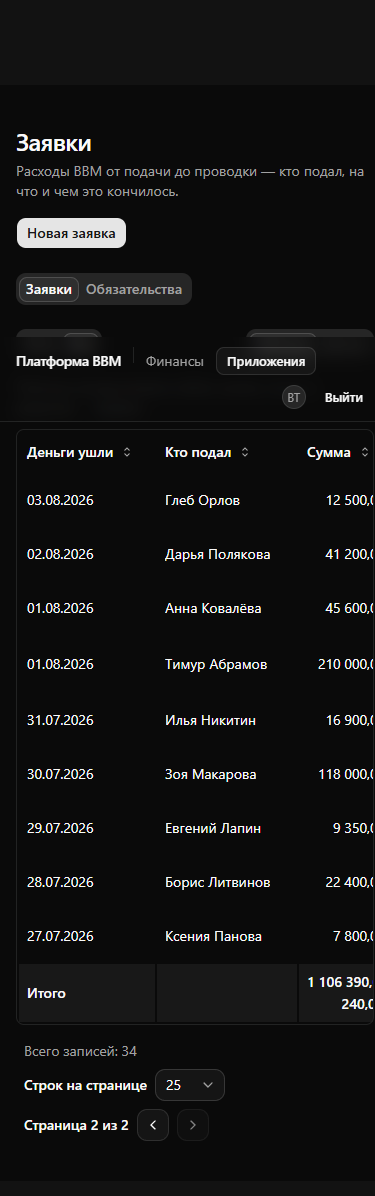
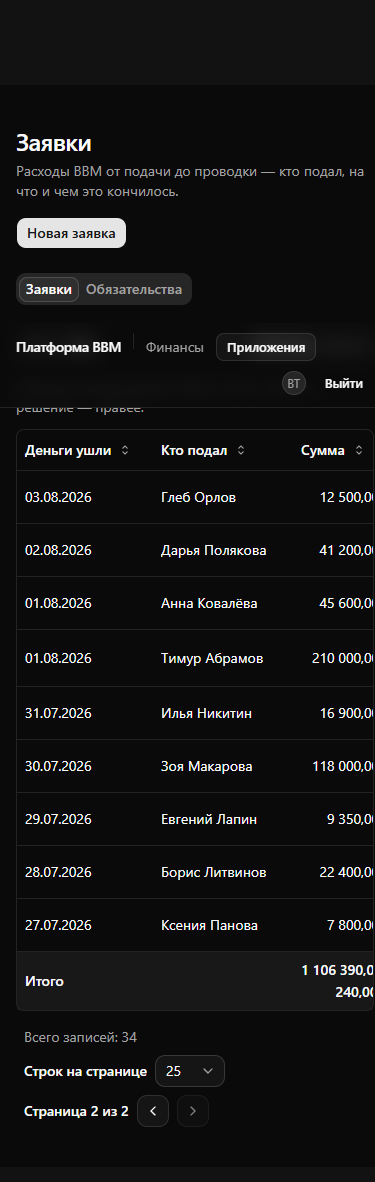
docs(evidence): #388 frames 41/42/48/49/66/67 re-taken after defect F at abc51ea
An eleventh pass over the table states, on the same stand and the same branch
DB platform_388. Measured live in all four combos: border-collapse=collapse,
the header row ruled, and 24 of 24 body rows ruled — 24 because the kit's last
row is deliberately border-0 and the container's own border closes the table.
The width budget did not move (1110/1110, overflow=false, the same header plan
and the same clipped counts); the only geometric change is the row box,
52 → 53 px, exactly the separator.

Frame 12 was NOT re-taken: the skeleton renders divs, never a <table>, so the
borders model never reached it — it was already drawing the rules, and its
desktop-light frame re-shot byte-identical.

Frame 69 could NOT be re-taken and stays the ninth pass's: its refusal
mutation answered 500 twice with «Jest worker encountered 2 child process
exceptions», the fork-exhaustion failure of a long-lived `next dev` that
.claude/rules/dev-env.md names — the PROCESS, not this diff, and its remedy is
restarting that stand, which is the lead's call. Every read-only state in the
same run measured cleanly and step 67's approve act went through.

Row changed in platform_388 this pass: #13 approved (step 67). Nothing else.

Claude-Session: https://claude.ai/code/session_011kd2BsNuzjhwU6wPvr1q2h

diff --git a/docs/evidence/388/README.md b/docs/evidence/388/README.md
@@ -772,3 +772,69 @@ mid-page, the artefact the ninth pass already named for frames taken after a
 scroll. The «Назначение» comment and the refusal reason still end in an
 ellipsis: that column is the one the plan makes give width, the reason carries a
 `title`, and both were the ninth pass's non-defects.
+
+## AN ELEVENTH pass at head `abc51ea` — defect F, the missing row separators
+
+The tenth pass's frames were re-read pixel by pixel and the register turned out
+to draw **no row separators and no rule under the header** — 25 six-column rows
+on an unbroken white field, with only the container's own `rounded-md border`
+and the footer band painting, while the loading skeleton (plain divs with
+`border-b`) ruled every row as promised. That is the ground of the owner's
+2026-09-15 rejection («no row separators; cells misaligned»), and it was never a
+missing class: measured live at head `a4322d9`, the `<tr>` already computed
+`border-bottom: 1px solid` in the `--border` colour.
+
+**The cause was the borders MODEL.** `src/ui/theme.css` transcribes Tailwind
+preflight BY HAND — an `@import` cannot be scoped to `[data-bbm-ui]`, and
+EARS-429 keeps `/p/okr` and `/p/hours` unreskinned — and the transcription
+stopped one rule short of upstream's
+`table { text-indent: 0; border-color: inherit; border-collapse: collapse }`.
+Without it the UA default stood (`border-collapse: separate`,
+`border-spacing: 2px`), and in the separate model a border set on a row, a row
+group or a column is **ignored outright** (CSS 2.2 §17.6.1). So every row rule
+the kit asks for resolved and painted nothing, and the footer band's vertical
+seams were the same cause seen from the other side — the 2 px spacing gaps
+between its cells. `abc51ea` adds that one rule, scoped like every other rule in
+the base layer; `b14ffc3` is the RED spec that pins the model rather than a
+class name.
+
+**Re-taken: 41, 42, 48, 49, 66** — each × {1440×900, 390×844} × {light, dark},
+full page, 20 frames replacing their same-name predecessors — plus **67**
+(desktop-light, the mutating one). What each shows is otherwise unchanged from
+the table above: the fix adds separators and nothing else. Harness:
+`.playwright-mcp/w3e-capture.cjs` over `w3-lib.cjs`, both git-ignored, on the
+same stand (`http://localhost:3000` from `.claude/worktrees/388`, the fix
+reached it through Fast Refresh) and the same branch DB `platform_388`.
+
+**Frame 12 was NOT re-taken, and that is the finding, not an omission.** The
+skeleton renders divs, never a `<table>` (`tables=0` in this pass's probe), so
+the model never reached it — it was the one surface already drawing the rules.
+Its desktop-light frame re-shot byte-identical, which is the proof.
+
+**Measured live, not computed**, in all four combos and every state: the table
+reads `border-collapse: collapse`; the header row paints its rule
+(`headRuled=true`); and **24 of 24** body rows paint theirs — 24 rather than 25
+because the kit's last row is deliberately `border-0`
+(`[&_tr:last-child]:border-0`), the container's own border closing the table
+instead. The budget did not move: 1110 / 1110 (`scrollWidth` / `clientWidth`)
+with `overflow=false` at 1440 in 41, 42, 48, 49 and 66, the same header plan
+140/144/127/195/195/308, and the same `clipped` counts as the tenth pass. The
+only geometric change is the row box: 52 → 53 px, exactly the 1 px the
+separator now occupies.
+
+**Row changed in `platform_388` this pass.** One act, from a table row: **#13**
+approved (step 67, toast «Заявка одобрена. Заявка №13»). Nothing else was
+written.
+
+**Frame 69 could NOT be re-taken at this head, and remains the ninth pass's.**
+Its step refuses a request from a row, and the mutation answered `500` on two
+consecutive attempts with `Jest worker encountered 2 child process exceptions,
+exceeding retry limit` — the long-lived `next dev` process on this stand has
+stopped being able to fork, the failure mode `.claude/rules/dev-env.md` names
+and whose only remedy is restarting THAT process (the lead's stand, the lead's
+call — not this task's to kill). It is the PROCESS, not this diff: every
+read-only state on the same stand, in the same run, rendered and measured
+cleanly, and the approve act of step 67 went through before the fork budget ran
+out. So 69 still carries the ninth pass's clipped «ещё не двига…» cell **and**
+the pre-fix unruled table; it is the one frame of this folder that does not show
+the head it sits next to.
